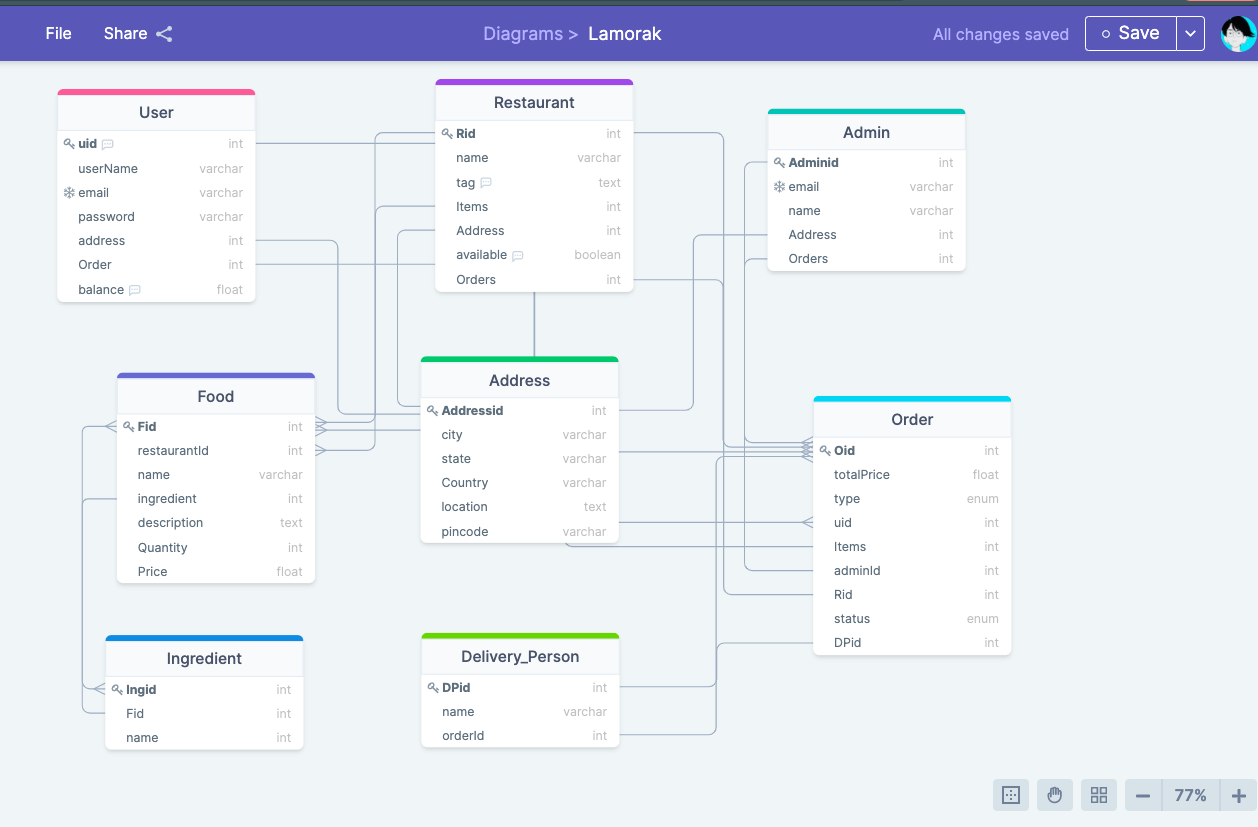
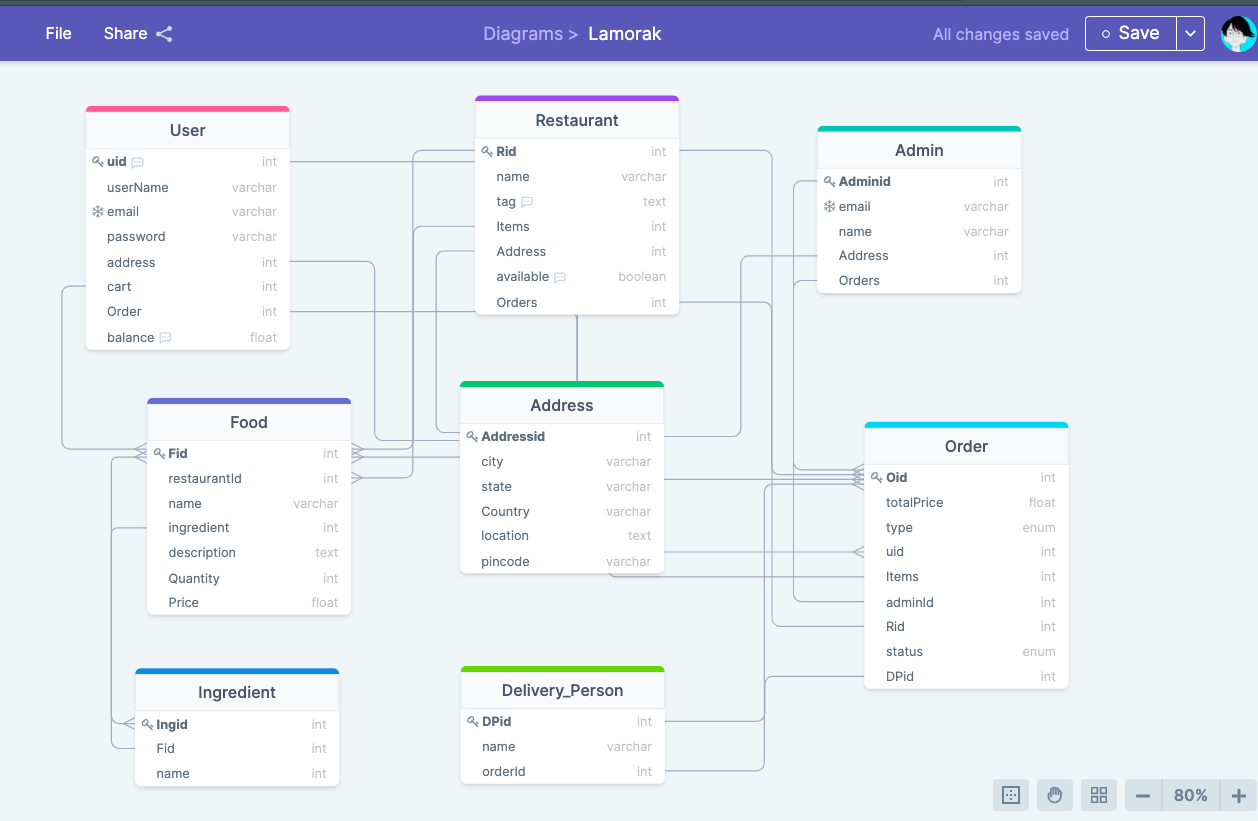
:rocket: Food Ingredients routes

diff --git a/src/controllers/admin.controllers.ts b/src/controllers/admin.controllers.ts
@@ -7,6 +7,11 @@ import { Restaurant } from "../entities/Restaurant";
 import { getRepository } from "typeorm";
 import { Address } from "../entities/Address";
 import { FoodIngredient } from "../entities/FoodIngredient";
+import {
+  deleteRestaurant,
+  getAllRestaurants,
+} from "../ControllerUtils/restaurantUtils";
+import { queryAllFoodsAlongWithIngredients } from "../ControllerUtils/FoodIngredientUtils";
 
 const signToken = (id: string) => {
   return JWT.sign(
@@ -234,21 +239,63 @@ export default {
     const ingredient = await Ingredient.findOne(IngId);
 
     if (food && ingredient) {
-      FoodIngredient.create({
+      const food_Ingredient = await FoodIngredient.create({
         FoodId: foodId,
         IngredientId: IngId,
         Food: food,
         Ingredient: ingredient,
-      });
+      }).save();
       // food.Ingredient = [...food.Ingredient, ingredient];
       // ingredient.Fid = [...ingredient.Fid, food];
 
-      await food.save();
-      await ingredient.save();
-
-      res.status(200).json({ food, ingredient });
+      res
+        .status(200)
+        .json({ food, ingredient, food_Ingredient: food_Ingredient });
     } else {
       res.status(500).json({ msg: "Internal Server Error" });
     }
+  },
+  removeIngredientToFood: async (req: Request, res: Response) => {
+    const { foodId, IngId } = req.params;
+
+    const food_Ingredient = await FoodIngredient.delete({
+      FoodId: foodId,
+      IngredientId: IngId,
+    });
+
+    res.status(200).json({ food_Ingredient: food_Ingredient });
+  },
+
+  getAllRestaurant: async (_req: Request, res: Response) => {
+    const restaurant = await getAllRestaurants();
+
+    res.status(200).json({ restaurant });
+  },
+  getAllDishes: async (_req: Request, res: Response) => {
+    const foodList = await queryAllFoodsAlongWithIngredients();
+
+    res.status(200).json({ dishes: foodList });
+  },
+  getAllIngredients: async (_req: Request, res: Response) => {
+    const ingredient = await Ingredient.find();
+    res.status(200).json({ ingredient });
+  },
+
+  DeleteSpecificRestaurant: async (req: Request, res: Response) => {
+    const deletedRestaurant = await deleteRestaurant(req.params.rId);
+
+    res.status(200).json({ deletedRestaurant });
+  },
+  DeleteSpecificFood: async (req: Request, res: Response) => {
+    const Fid = req.params.foodId;
+
+    const deletedFood = await Food.delete({ Fid });
+    res.status(200).json({ deletedFood });
+  },
+  DeleteSpecificIngredient: async (req: Request, res: Response) => {
+    const Ingid = req.params.ingredientId;
+
+    const deletedIngredient = await Ingredient.delete({ Ingid });
+    res.status(200).json({ deletedIngredient });
   },
 };

diff --git a/src/controllers/user.controllers.ts b/src/controllers/user.controllers.ts
@@ -7,10 +7,14 @@ import bcrypt from "bcrypt";
 import { User } from "../entities/User";
 import { Address } from "../entities/Address";
 import { Restaurant } from "../entities/Restaurant";
-import { Food } from "../entities/Food";
 import { Order } from "../entities/Order";
-import { getUserWithAddress } from "../ControllerUtils/userUtils";
+import {
+  addToCart,
+  getUserCartItems,
+  getUserWithAddress,
+} from "../ControllerUtils/userUtils";
 import { getRestaurantFoodItemsByCities } from "../ControllerUtils/restaurantUtils";
+import { queryFoodsIngredients } from "../ControllerUtils/FoodIngredientUtils";
 
 const signToken = (id: string) => {
   return JWT.sign(
@@ -197,9 +201,26 @@ export default {
   showUserSpecificFoodItem: async (req: Request, res: Response) => {
     const FoodId = req.params.FoodId;
 
-    const foodItem = await Food.findOne(FoodId);
+    const foodItem = await queryFoodsIngredients(FoodId);
 
     res.status(200).json({ foodItem });
+  },
+  userAddToCart: async (req: any, res: Response) => {
+    const foodId = req.params.FoodId;
+    const userId = req.user.uid;
+
+    const food = await addToCart(userId, foodId);
+
+    res.status(200).json({ food, msg: "Added To Cart" });
+  },
+  viewCartItems: async (req: any, res: Response) => {
+    const user = await getUserCartItems(req);
+
+    if (user) {
+      res.status(200).json({ user });
+    } else {
+      res.status(500).json({ msg: "Internal Server Error" });
+    }
   },
   userOrderFood: async (_req: Request, _res: Response) => {},
   userGetAllOrders: async (req: any, res: Response) => {

diff --git a/src/ControllerUtils/restaurantUtils.ts b/src/ControllerUtils/restaurantUtils.ts
@@ -1,3 +1,4 @@
+import { Food } from "../entities/Food";
 import { getRepository } from "typeorm";
 import { Restaurant } from "../entities/Restaurant";
 // import { Food } from "../entities/Food";
@@ -8,7 +9,7 @@ export const getRestaurantFoodItemsByCities = async (
   const restaurantAndFood = await getRepository(Restaurant)
     .createQueryBuilder("restaurant")
     .leftJoinAndSelect("restaurant.address", "address")
-    .leftJoinAndSelect("restaurant.items", "items") // not working
+    .leftJoinAndSelect("restaurant.items", "items")
     .where("restaurant.available = :available", { available: true })
     .andWhere("address.city = :city", { city })
     .andWhere("items.available = :available", { available: true })
@@ -27,4 +28,25 @@ export const getRestaurantsByCities = async (
     .getMany();
 
   return restaurant;
+};
+
+export const getAllRestaurants = async (): Promise<Restaurant[]> => {
+  return await getRepository(Restaurant)
+    .createQueryBuilder("restaurant")
+    .leftJoinAndSelect("restaurant.address", "address")
+    .getMany();
+};
+
+export const deleteRestaurant = async (restaurantId: string) => {
+  // Delete all the foods in the Restaurant
+  await getRepository(Food)
+    .createQueryBuilder("food")
+    .delete()
+    .from(Food)
+    .where("food.restaurantId = :restaurantId", { restaurantId })
+    .execute();
+
+  const deletedRestaurant = await Restaurant.delete({ Rid: restaurantId });
+
+  return deletedRestaurant;
 };

diff --git a/src/routes/admin.routes.ts b/src/routes/admin.routes.ts
@@ -47,4 +47,41 @@ router.post(
   adminController.addIngredientToFood
 );
 
+// Remove Ingredients to Food
+router.delete(
+  "foodingredient/:foodId/:IngId",
+  auth,
+  isAdmin,
+  adminController.removeIngredientToFood
+);
+
+// get All restaurants
+router.get("/restaurants", auth, isAdmin, adminController.getAllRestaurant);
+// get All the foods
+router.get("/food", auth, isAdmin, adminController.getAllDishes);
+// get All the ingredients
+router.get("/ingredients", auth, isAdmin, adminController.getAllIngredients);
+
+// delete restaurants
+router.delete(
+  "/restaurants/:rId",
+  auth,
+  isAdmin,
+  adminController.DeleteSpecificRestaurant
+);
+// delete foods
+router.delete(
+  "/food/:foodId",
+  auth,
+  isAdmin,
+  adminController.DeleteSpecificFood
+);
+// delete ingredients
+router.delete(
+  "/ingredients/:ingredientId",
+  auth,
+  isAdmin,
+  adminController.DeleteSpecificIngredient
+);
+
 export default router;

diff --git a/src/ControllerUtils/userUtils.ts b/src/ControllerUtils/userUtils.ts
@@ -1,3 +1,4 @@
+import { Food } from "../entities/Food";
 import { getRepository } from "typeorm";
 import { User } from "../entities/User";
 
@@ -9,4 +10,25 @@ export const getUserWithAddress = async (req: any) => {
     .getOne();
 
   return user;
+};
+
+export const getUserCartItems = async (req: any): Promise<User | undefined> => {
+  const user = await getRepository(User)
+    .createQueryBuilder("User")
+    .leftJoinAndSelect("User.cart", "cart")
+    .where("User.uid = :id", { id: req.user.uid })
+    .getOne();
+
+  return user;
+};
+
+export const addToCart = async (userId: string, foodId: string) => {
+  const food = await Food.findOne(foodId);
+  const user = await User.findOne(userId);
+
+  // food!.userId = user!.uid
+
+  food!.user = user!;
+
+  return food;
 };

diff --git a/src/routes/user.routes.ts b/src/routes/user.routes.ts
@@ -27,8 +27,14 @@ router.get(
 
 router.get("/item/:FoodId", auth, userController.showUserSpecificFoodItem);
 
+// Add items to cart
+router.post("/cart/:FoodId", auth, userController.userAddToCart);
+
+// See all items in cart
+router.get("/cart/", auth, userController.viewCartItems);
+
 // Order food
-router.post("/order/:FoodId", auth, userController.userOrderFood);
+router.post("/order/", auth, userController.userOrderFood);
 
 // View all orderd items, order history
 router.get("/order", auth, userController.userGetAllOrders);

diff --git a/src/ControllerUtils/FoodIngredientUtils.ts b/src/ControllerUtils/FoodIngredientUtils.ts
@@ -25,3 +25,10 @@ export const queryFoodsIngredients = async (
     .getOne();
   return food;
 };
+
+export const queryAllFoodsAlongWithIngredients = async (): Promise<Food[]> => {
+  return await Food.createQueryBuilder("food")
+    .leftJoinAndSelect("food.IngredientConnection", "ingredients")
+    .leftJoinAndSelect("food.restaurant", "restaurant")
+    .getMany();
+};

diff --git a/src/entities/Food.ts b/src/entities/Food.ts
@@ -41,8 +41,11 @@ export class Food extends BaseEntity {
   @OneToMany(() => FoodIngredient, (fi) => fi.IngredientId)
   IngredientConnection: FoodIngredient[];
 
+  // @Column({nullable: true})
+  // userId: string;
+
   @ManyToOne(() => User, (usr) => usr.cart)
-  // @JoinColumn({ name: "user_id" })
+  // @JoinColumn({ name: "userId" })
   @JoinColumn()
   user: User;
 }
